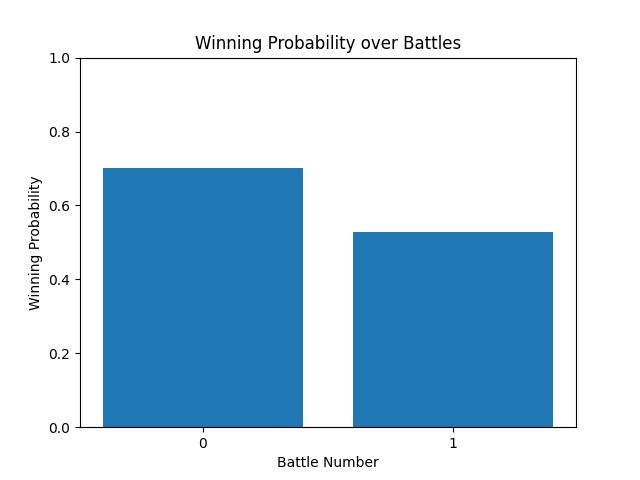
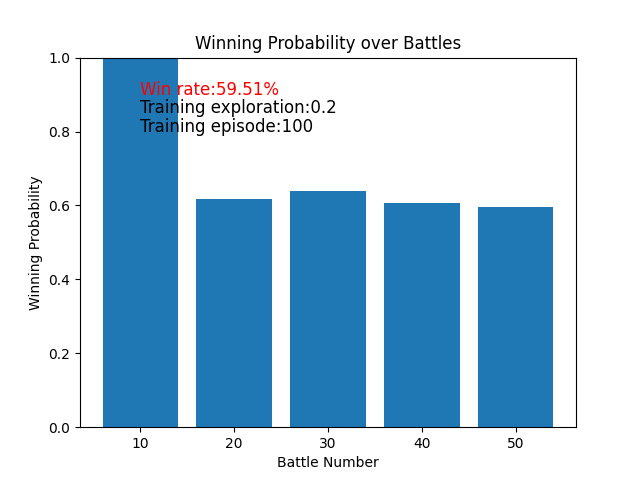
今度こそ

diff --git a/train.py b/train.py
@@ -293,9 +293,10 @@ def train_agent(agent, episodes, progress_pipe):
 	agent.train(episodes=episodes, progress_pipe=progress_pipe)
 
 def plot_win_rates(win_rates, win_rate, exploration2, episode2):
+	plt.clf() 
 
 	# 棒グラフの表示
-	plt.bar([str(i) for i in range(len(win_rates))], win_rates)
+	plt.bar([str((i + 1) * 10) for i in range(len(win_rates))], win_rates)
 
 	# グラフのタイトルと軸ラベル
 	plt.xlabel("Battle Number") #対戦回数
@@ -306,127 +307,129 @@ def plot_win_rates(win_rates, win_rate, exploration2, episode2):
 	# plt.show()
 	# y軸の範囲を0から1に設定
 	plt.ylim(0, 1)
-	plt.text(5, 0.9, "Win rate:" + str(round(win_rate, 4)*100) + "%", fontsize=12, color='red')
-	plt.text(5, 0.85, "Training exploration:" + exploration2, fontsize=12, color='black')
-	plt.text(5, 0.8, "Training episode:" + episode2, fontsize=12, color='black')
+	plt.text(0, 0.9, "Win rate:" + str(round(win_rate, 4)*100) + "%", fontsize=12, color='red')
+	plt.text(0, 0.85, "Training exploration:" + exploration2, fontsize=12, color='black')
+	plt.text(0, 0.8, "Training episode:" + episode2, fontsize=12, color='black')
 	plt.savefig("winning_probability_plot.png")
 
 if __name__ == "__main__":
-	episodes1 = 10000000
-	episodes2 = 10000000
-	q_learning_agent1 = QLearningOthello(board_size=6)
-	q_learning_agent2 = QLearningOthello(board_size=6)
+	# 人間と対戦用
+	if input('人間と対戦しますか: y or n : ') == "y":
+		agent_num = 1000
+		q_learning_agent = QLearningOthello(board_size=6)
 
-	progress_pipe1, child_conn1 = Pipe()
-	progress_pipe2, child_conn2 = Pipe()
+		# 進捗表示用のパイプを作成
+		progress_pipe, child_conn = Pipe()
 
-	training_process1 = Process(target=train_agent, args=(q_learning_agent1, episodes1, child_conn1))
-	training_process2 = Process(target=train_agent, args=(q_learning_agent2, episodes2, child_conn2))
+		# トレーニング用プロセスを起動
+		training_process = Process(target=train_agent, args=(q_learning_agent, 1000, child_conn))
+		training_process.start()
 
-	training_process1.start()
-	training_process2.start()
+		# 学習の進捗を表示
+		with tqdm(total=1000, desc="Training", position=0, leave=True) as pbar:
+			while training_process.is_alive():
+				if progress_pipe.poll():
+					pbar.update(progress_pipe.recv())
 
-	with tqdm(total=episodes1, desc="Training Agent 1", position=0, leave=True) as pbar1, \
-			tqdm(total=episodes2, desc="Training Agent 2", position=1, leave=True) as pbar2:
-
-		while training_process1.is_alive() or training_process2.is_alive():
-			if progress_pipe2.poll():
-				pbar2.update(progress_pipe2.recv())
-			if progress_pipe1.poll():
-				pbar1.update(progress_pipe1.recv())
-
-	training_process1.join()
-	training_process2.join()
-	print("Training Done")
-
-	battle_num = 1000
-	trials = 5000
-	exploration2 = 0.1
-	while True:
-		# 対戦回数ごとに勝率を保存するリスト
-		win_rates = []
-		for j in range(trials):
-			if(j % 1 == 0):print("j:      " + str(j))
-			for i in range(battle_num):
-				if(i % 100 == 0):print("i: " + str(i))
-				# エージェント同士の対戦
-				game = OthelloGame(agent=q_learning_agent1, human_player=False)
-				game.battle = True
-				game.play_against(q_learning_agent1, q_learning_agent2)
-			if j % 10 == 0:
-				# 勝率を計算してリストに追加
-				win_rate = q_learning_agent2.score / (q_learning_agent1.score + q_learning_agent2.score)
-				win_rates.append(win_rate)
-		# 対戦結果の表示
-		print(f"Agent 1 Scores: {q_learning_agent1.score}")
-		print(f"Agent 2 Scores: {q_learning_agent2.score}")
-		# 勝率の推移をグラフにプロット
-		plot_win_rates(win_rates, win_rate, str(exploration2), str(episodes2))
-		print("勝率の推移を出力しました")
-		change = input('エージェントを変更しますか: y or n : ')
-		# 学習ε変更
-		if change == "y":
-			exploration2 = input('εを幾つにしますか(半角数字で入力): ')
-			while not(0.0 <= float(exploration2) <= 1.0):
-				exploration2 = input('εを幾つにしますか(半角数字で入力)(0~1で入力してください): ')
-			q_learning_agent1.score = 0
-			# エージェント2の学習
-			q_learning_agent2 = QLearningOthello(board_size=6, exploration_rate=float(exploration2))
-			training_process2 = Process(target=train_agent, args=(q_learning_agent2, int(episodes2), child_conn2))
-			training_process2.start()
-			print("学習中...")
-			training_process2.join()
-
-		# 学習回数変更
-		# if change == "y":
-		# 	episodes2 = input('何回学習しますか(半角数字で入力): ')
-		# 	q_learning_agent1.score = 0
-		# 	q_learning_agent2.score = 0
-		# 	# エージェント2の学習
-		# 	training_process2 = Process(target=train_agent, args=(q_learning_agent2, int(episodes2), child_conn2))
-		# 	training_process2.start()
-		# 	print("学習中...")
-		# 	training_process2.join()
+		# トレーニング用プロセスの終了を待機
+		training_process.join()
+		print("Training Done")
 
 
-# 人間と対戦用
-# if __name__ == "__main__":
-	# q_learning_agent = QLearningOthello(board_size=6)
+		# ゲームの初期化
+		pyxel.init(120, 140, fps=10)
+		game = OthelloGame(agent=q_learning_agent, human_player=True)
+		game.battle = True
 
-	# # 進捗表示用のパイプを作成
-	# progress_pipe, child_conn = Pipe()
+		def update():
+			if game.is_game_over():
+				if pyxel.btnp(pyxel.KEY_SPACE, 1, 1):
+					if np.sum(np.array(game.board) == 1) >= 18:
+						q_learning_agent.score += 1
+					# ゲームが終了したら初期化
+					game.reset_game()
+			else:
+				game.update()
 
-	# # トレーニング用プロセスを起動
-	# training_process = Process(target=train_agent, args=(q_learning_agent, 11, child_conn))
-	# training_process.start()
+		def draw():
+			game.draw()
+			pyxel.text(5, 130, f"Your Scores: {q_learning_agent.score}", 0)
+		pyxel.run(update, draw)
 
-	# # 学習の進捗を表示
-	# with tqdm(total=11, desc="Training", position=0, leave=True) as pbar:
-	# 	while training_process.is_alive():
-	# 		if progress_pipe.poll():
-	# 			pbar.update(progress_pipe.recv())
+	#エージェント同士が戦う
+	else:
+		episodes1 = 10000
+		episodes2 = 10000
+		q_learning_agent1 = QLearningOthello(board_size=6)
+		q_learning_agent2 = QLearningOthello(board_size=6)
 
-	# # トレーニング用プロセスの終了を待機
-	# training_process.join()
-	# print("Training Done")
+		progress_pipe1, child_conn1 = Pipe()
+		progress_pipe2, child_conn2 = Pipe()
 
+		training_process1 = Process(target=train_agent, args=(q_learning_agent1, episodes1, child_conn1))
+		training_process2 = Process(target=train_agent, args=(q_learning_agent2, episodes2, child_conn2))
 
-	# # ゲームの初期化
-	# pyxel.init(120, 140, fps=10)
-	# game = OthelloGame(agent=q_learning_agent, human_player=True)
-	# game.battle = True
+		training_process1.start()
+		training_process2.start()
 
-	# def update():
-	# 	if game.is_game_over():
-	# 		if pyxel.btnp(pyxel.KEY_SPACE, 1, 1):
-	# 			if np.sum(np.array(game.board) == 1) >= 18:
-	# 				q_learning_agent.score += 1
-	# 			# ゲームが終了したら初期化
-	# 			game.reset_game()
-	# 	else:
-	# 		game.update()
+		with tqdm(total=episodes1, desc="Training Agent 1", position=0, leave=True) as pbar1, \
+				tqdm(total=episodes2, desc="Training Agent 2", position=1, leave=True) as pbar2:
 
-	# def draw():
-	# 	game.draw()
-	# 	pyxel.text(5, 130, f"Your Scores: {q_learning_agent.score}", 0)
-	# pyxel.run(update, draw)
+			while training_process1.is_alive() or training_process2.is_alive():
+				if progress_pipe2.poll():
+					pbar2.update(progress_pipe2.recv())
+				if progress_pipe1.poll():
+					pbar1.update(progress_pipe1.recv())
+
+		training_process1.join()
+		training_process2.join()
+		print("Training Done")
+
+		battle_num = 100
+		trials = 10000
+		exploration2 = 0.1
+		while True:
+			# 対戦回数ごとに勝率を保存するリスト
+			win_rates = []
+			for j in range(trials):
+				if(j % 1 == 0):print("j:      " + str(j))
+				for i in range(battle_num):
+					if(i % 100 == 0):print("i: " + str(i))
+					# エージェント同士の対戦
+					game = OthelloGame(agent=q_learning_agent1, human_player=False)
+					game.battle = True
+					game.play_against(q_learning_agent1, q_learning_agent2)
+				if j % 10 == 0:
+					# 勝率を計算してリストに追加
+					win_rate = q_learning_agent2.score / (q_learning_agent1.score + q_learning_agent2.score)
+					win_rates.append(win_rate)
+			# 対戦結果の表示
+			print(f"Agent 1 Scores: {q_learning_agent1.score}")
+			print(f"Agent 2 Scores: {q_learning_agent2.score}")
+			# 勝率の推移をグラフにプロット
+			plot_win_rates(win_rates, win_rate, str(exploration2), str(episodes2))
+			print("勝率の推移を出力しました")
+			e_change = "n"
+			n_change = "n"
+			e_change = input('エージェントのεを変更しますか: y or n : ')
+			# 学習ε変更
+			if e_change == "y":
+				exploration2 = input('εを幾つにしますか(半角数字で入力): ')
+				while not(0.0 <= float(exploration2) <= 1.0):
+					exploration2 = input('εを幾つにしますか(半角数字で入力)(0~1で入力してください): ')
+				# エージェント2の学習
+				q_learning_agent2 = QLearningOthello(board_size=6, exploration_rate=float(exploration2))
+			n_change = input('エージェントの試行回数を変更しますか: y or n : ')
+			# 学習回数変更
+			if n_change == "y":
+				episodes2 = input('何回学習しますか(半角数字で入力): ')
+			if e_change == "y" or n_change == "y":
+				q_learning_agent1.score = 0
+				q_learning_agent2.score = 0
+				# エージェント2の学習
+				training_process2 = Process(target=train_agent, args=(q_learning_agent2, int(episodes2), child_conn2))
+				training_process2.start()
+				print("学習中...")
+				training_process2.join()
+	
+
